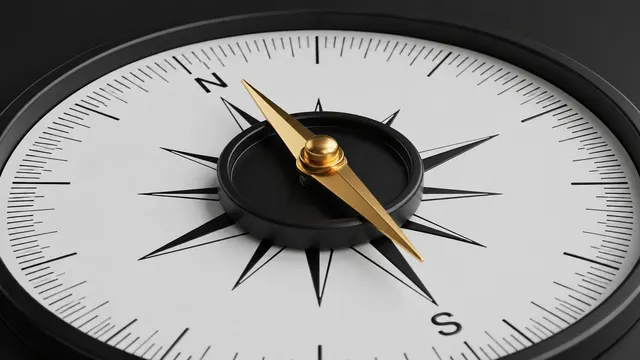
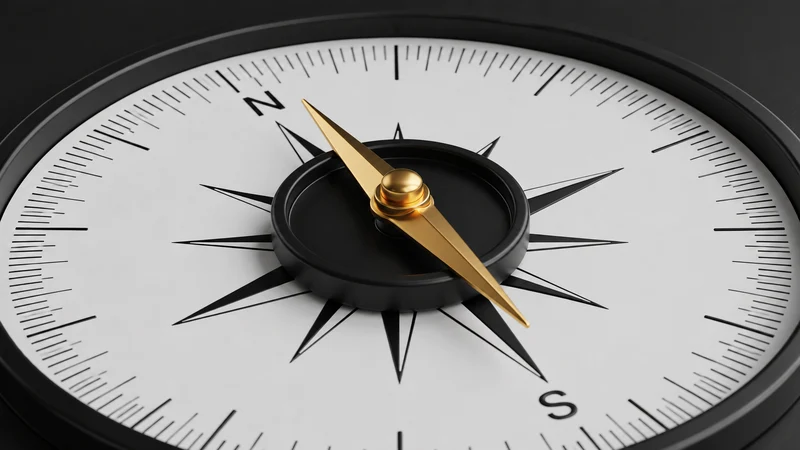
feat(mobile-services): split image into top+blur-copy layout, boost quality
Mobile: image in top 50svh (no stretch) + copy behind glass blur panel.
Images reconverted at quality 90/87 (was 82/78), 1440px/800px (was 1200px/640px).

diff --git a/src/app/components/sessao-section.tsx b/src/app/components/sessao-section.tsx
@@ -138,10 +138,11 @@ function MobileSessao() {
       {/* Sticky viewport */}
       <div style={{ position: "sticky", top: 0, height: "100svh", overflow: "hidden", backgroundColor: "#111" }}>
 
-        {/* ── Imagens de fundo em crossfade ── */}
+        {/* ── Top half: imagens visíveis (não-blur) ── */}
         {ITEMS.map((item, i) => (
           <div key={i} style={{
-            position: "absolute", inset: 0,
+            position: "absolute", top: 0, left: 0, right: 0,
+            height: "50svh",
             opacity: i === activeIdx ? 1 : 0,
             transition: "opacity 0.6s cubic-bezier(0.4,0,0.2,1)",
             willChange: "opacity",
@@ -152,10 +153,25 @@ function MobileSessao() {
           </div>
         ))}
 
-        {/* Overlay */}
+        {/* ── Bottom half: cópia da imagem atrás do blur ── */}
+        {ITEMS.map((item, i) => (
+          <div key={i} style={{
+            position: "absolute", bottom: 0, left: 0, right: 0,
+            height: "50svh",
+            opacity: i === activeIdx ? 1 : 0,
+            transition: "opacity 0.6s cubic-bezier(0.4,0,0.2,1)",
+            willChange: "opacity",
+          }}>
+            <img src={item.bgMob} alt=""
+              loading="lazy"
+              style={{ width: "100%", height: "100%", objectFit: "cover", objectPosition: "center center", display: "block", filter: "grayscale(100%)" }} />
+          </div>
+        ))}
+
+        {/* Gradient leve só no topo */}
         <div style={{
-          position: "absolute", inset: 0, pointerEvents: "none",
-          background: "linear-gradient(to bottom, rgba(0,0,0,0.22) 0%, rgba(0,0,0,0.12) 40%, rgba(0,0,0,0.60) 100%)",
+          position: "absolute", top: 0, left: 0, right: 0, height: "50svh", pointerEvents: "none",
+          background: "linear-gradient(to bottom, rgba(0,0,0,0.22) 0%, rgba(0,0,0,0.04) 100%)",
         }} />
 
         {/* ── Painel glass inferior ── */}
